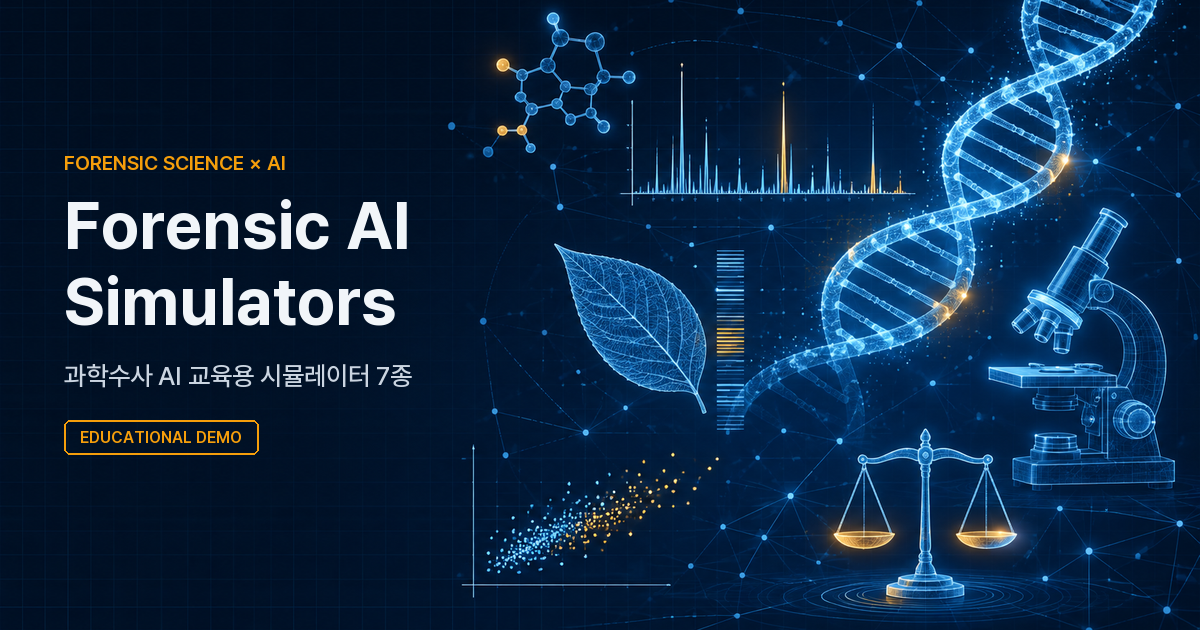
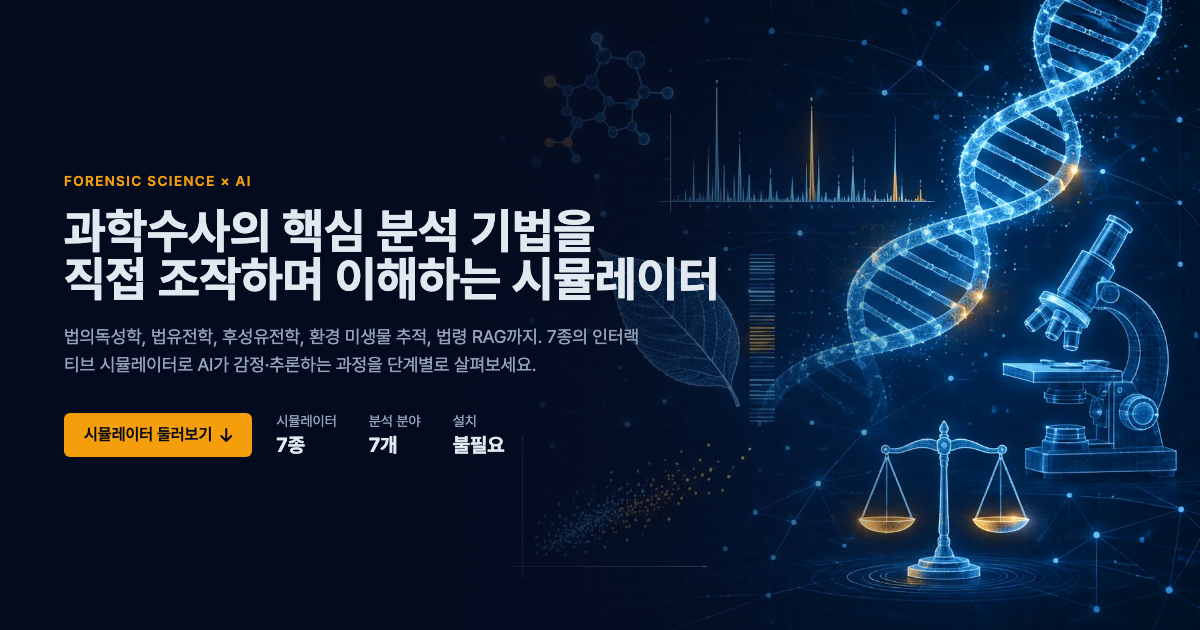
Use hero section render as OG image

diff --git a/index.html b/index.html
@@ -12,7 +12,7 @@
     <meta property="og:image" content="https://yeonbumkim.github.io/forensic-ai-simulators/og-image.png">
     <meta property="og:image:width" content="1200">
     <meta property="og:image:height" content="630">
-    <meta property="og:image:alt" content="Forensic AI Simulators - 과학수사 AI 교육용 시뮬레이터 7종">
+    <meta property="og:image:alt" content="과학수사의 핵심 분석 기법을 직접 조작하며 이해하는 시뮬레이터 - Forensic AI Simulators">
     <meta property="og:url" content="https://yeonbumkim.github.io/forensic-ai-simulators/">
     <meta name="twitter:card" content="summary_large_image">
     <script src="https://cdn.tailwindcss.com"></script>
